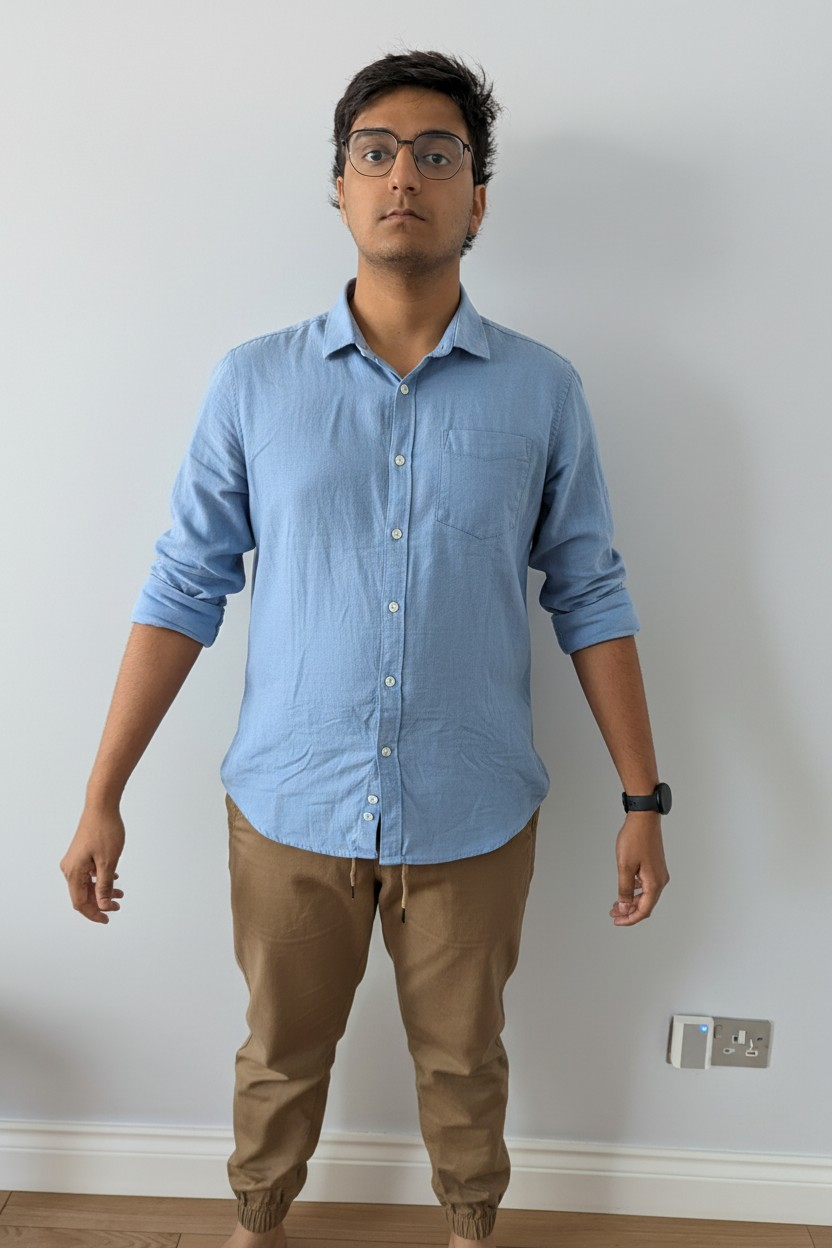
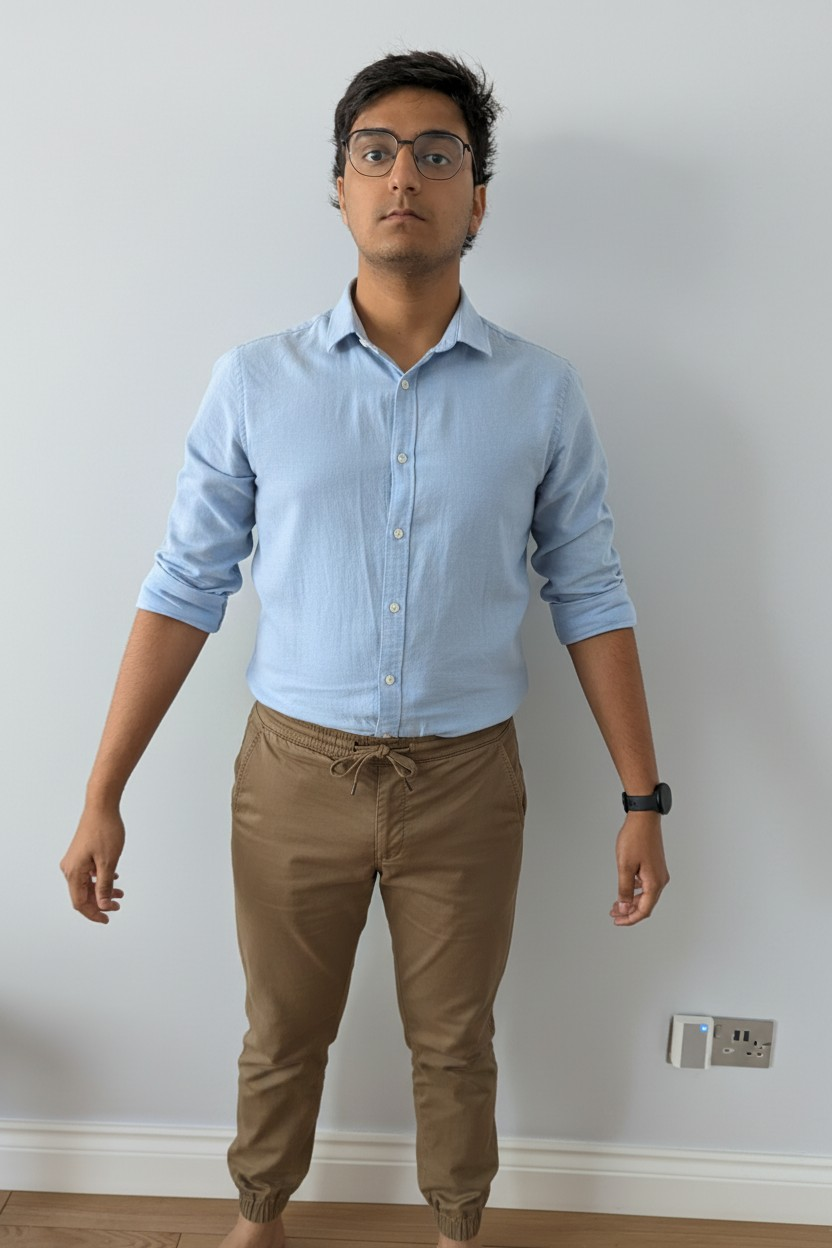
Added better weather determination features and support for tomorrow's calendar events

Changed region(s): [[0.1562, 0.2188, 0.7812, 1.0], [0.875, 0.8125, 0.9375, 0.8438]]

diff --git a/clothing_recommendation.py b/clothing_recommendation.py
@@ -15,7 +15,7 @@ client = genai.Client(api_key = LLM_KEY)
 
 
 
-def generateLLMResponse(weather, temperature, location, clothes, events):
+def generateLLMResponse(weather, location, clothes, events):
     jsonFormat = """Return your answer as valid JSON in the following format.
 
           If no outerwear is required, set "outerwear" to null. Otherwise, set it to the exact name of the outerwear item from the provided clothing list.
@@ -51,7 +51,7 @@ def generateLLMResponse(weather, temperature, location, clothes, events):
     try:
       llmResponse = client.models.generate_content_stream(
           model = "gemini-3.5-flash",
-          contents = f"I am currently in {location}. The weather is {weather} and it is {temperature} degrees celsius. Here is a list of the clothes that I own : {clothes}. Here are the events that I have today {events}. Based on this, give me 2 outfit recommendations using the clothes that I have - 1 outfit that would suit the weather conditions and the events I have today perfectly, and 1 backup option. If necessary, I can pack a bag with another set of clothes if an event I have requires a change of clothes, but don't include multiple outfit changes - I can only take 1 bag with 1 outfit inside! The colour of the clothing should be considered when making a decision - both the top and bottom ideally shouldn't be the same unless required. Give me a confidence score out of 10 for both of these options. Don't add extra details about the clothes, only use the details that are provided. Return your response in a JSON format like this: {jsonFormat}. Return only the JSON object. Don't include markdown or any explanations!"
+          contents = f"Tomorrow I will be in {location}. Here is the weather tomorrow in {location} : {weather}. Here is a list of the clothes that I own : {clothes}. Here are the events that I have today {events}. Based on this, give me 2 outfit recommendations using the clothes that I have - 1 outfit that would suit the weather conditions and the events I have tomorrow perfectly, and 1 backup option. If necessary, I can pack a bag with another set of clothes if an event I have requires a change of clothes, but don't include multiple outfit changes - I can only take 1 bag with 1 outfit inside! The colour of the clothing should be considered when making a decision - both the top and bottom ideally shouldn't be the same unless required. Give me a confidence score out of 10 for both of these options. Don't add extra details about the clothes, only use the details that are provided. Return your response in a JSON format like this: {jsonFormat}. Return only the JSON object. Don't include markdown or any explanations!"
       )
 
       output = ""

diff --git a/image_generation.py b/image_generation.py
@@ -82,9 +82,9 @@ def generateBaseOutfit(images, recommendation, filename):
 
             The remaining images are CLOTHING REFERENCE IMAGES ONLY. They are NOT identity references and must NEVER influence the person's appearance. Use them ONLY to copy the garments.
 
-            The second image is the reference for the top. Replace the person's existing top with the exact garment shown in the second image, which is a {top}. Match the colour, fabric, sleeve length, collar, fit, logos, patterns and design as accurately as possible. Do not tuck the top in unless it is a formal button-up shirt. Do not add any folds or colours that are not in the reference image"
+            The second image is the reference for the top. Replace the person's existing top with the exact garment shown in the second image, which is a {top}. Match the garment's colour, shape, length, fit and styling exactly to the reference image. Do not add rolled cuffs, folded hems, rolled-up sleeves, turned-up trouser legs, tucks, colour changes, patterns or other styling details that are not present in the reference image. Only add the minimal natural fabric creasing necessary for the garment to be realistically worn by the person.
 
-            The third image is the reference for the bottom. Replace the person's existing bottom with the exact garment shown in the third image, which is {bottom}. Match the colour, fabric, fit, logos, patterns and design as accurately as possible. Do not add any folds or colours that are not in the reference image"
+            The third image is the reference for the bottom. Replace the person's existing bottom with the exact garment shown in the third image, which is {bottom}. Match the garment's colour, shape, length, fit and styling exactly to the reference image. Do not add rolled cuffs, folded hems, rolled-up sleeves, turned-up trouser legs, tucks, colour changes, patterns or other styling details that are not present in the reference image. Only add the minimal natural fabric creasing necessary for the garment to be realistically worn by the person.
             """
    
     prompt += """

diff --git a/weather.py b/weather.py
@@ -1,13 +1,15 @@
 import requests
 import os
 from dotenv import load_dotenv # Used to get data from the .env file
+from datetime import datetime
+from datetime import timedelta
 
 
 load_dotenv()
 API_KEY = os.getenv("API_KEY")
 
 
-def getWeather(location):
+def getCurrentWeather(location):
     weatherData = {}
     parameters = {"q": location, "units":"metric", "appid":API_KEY} # Parameters that are declared to get specific data from the API
     response = requests.get("http://api.openweathermap.org/data/2.5/weather", params=parameters)
@@ -21,3 +23,31 @@ def getWeather(location):
         return weatherData
     else:
         print("Invalid city")
+
+def getWeatherForDay(location):
+    forecastString = ""
+    parameters = {"q": location, "units":"metric", "appid":API_KEY, "cnt" : 40} # Parameters that are declared to get specific data from the API
+    response = requests.get("http://api.openweathermap.org/data/2.5/forecast", params=parameters)
+    nextDatetime = str(datetime.now() + timedelta(days=1))
+    nextDay = nextDatetime.split()[0]
+    if response.status_code == 200:
+        jsonData = response.json()
+        forecastData = jsonData["list"]
+        for time in forecastData:
+            dateTime = time["dt_txt"]
+            date = dateTime.split()[0]
+            if date == nextDay:
+                temperature = time["main"]["temp"]
+                weather = time["weather"][0]["description"]
+                forecastTime = dateTime.split()[1][:5]  # e.g. "12:00"
+
+                forecastString += (
+                    f"{forecastTime}: {weather}, {temperature}°C\n"
+                )
+        
+        print(forecastString)
+        return forecastString
+
+
+
+getWeatherForDay("London")

diff --git a/GoogleCalendar.py b/GoogleCalendar.py
@@ -1,5 +1,5 @@
 import datetime
-from datetime import time
+from datetime import time, timedelta
 import os.path
 
 from google.auth.transport.requests import Request
@@ -41,17 +41,29 @@ def main():
     service = build("calendar", "v3", credentials=creds)
     calendar = service.calendarList().list().execute()
     email = calendar["items"][0]["id"]
-    currentTime = datetime.datetime.now(tz=datetime.timezone.utc).isoformat() # Gets current time
-    #time.max is the latest time (23:59:59 so only the events for the current day are returned)
-    latestTime = datetime.datetime.combine(datetime.datetime.now(), time.max, datetime.timezone.utc).isoformat()
-    print(currentTime)
-    print(latestTime)
+    tomorrow = datetime.datetime.now() + timedelta(days=1)
+
+    startOfDay = datetime.datetime.combine(
+      tomorrow.date(),
+      time.min,
+      datetime.timezone.utc
+    ).isoformat()
+
+    endOfDay = datetime.datetime.combine(
+      tomorrow.date(),
+      time.max,
+      datetime.timezone.utc
+    ).isoformat()
+
+
+    print(startOfDay)
+    print(endOfDay)
     events = (
       service.events()
       .list(
         calendarId = "primary", #Gets the primary user's calendar
-        timeMin = currentTime, #The earliest time to look for events
-        timeMax = latestTime, #The latest time to look for events
+        timeMin = startOfDay, #The earliest time to look for events
+        timeMax = endOfDay, #The latest time to look for events
         singleEvents = True, #Only gets 1 event of that type if there are multiple
         orderBy = "startTime",
       )

diff --git a/main.py b/main.py
@@ -33,7 +33,8 @@ userImageURL = "https://res.cloudinary.com/dytqwfesq/image/upload/v1782742488/PX
 def main():
     attachmentImages = []
     city = input("Enter a city : ")
-    weatherData = weather.getWeather(city)
+    #weatherData = weather.getCurrentWeather(city)
+    weatherData = weather.getWeatherForDay(city)
     clothes = wardrobe.getClothes()
 
     calendarInfo = GoogleCalendar.main()
@@ -41,7 +42,7 @@ def main():
     userEmail = calendarInfo["Email"]
 
     
-    recommendation = c_r.generateLLMResponse(weatherData["Weather"], weatherData["Temperature"], city, clothes, events)
+    recommendation = c_r.generateLLMResponse(weatherData, city, clothes, events)
     
     userWardrobe = wardrobe.loadWardrobe()
 
